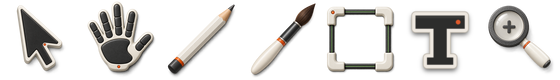
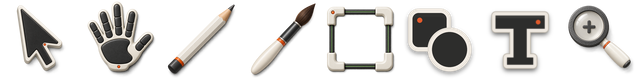
feat(dock): the Shape tool's button — its illustration, its lines and U
The dock gains an eighth tool between Frame and Text, taken up with `U`,
Photoshop's key for its shapes. Its illustration is drawn to the dock's
matte set — a charcoal square and a circle over its corner, each in the
warm ivory rim the others wear, the orange accent in the square's
corner, the same soft shadow under both — at the size the frame, the
pencil and the hand take in their cells, and the sheet is the eight in
dock order, cell for cell the files beside it. The line art the dock
falls back to without the sheet gets a square and a circle too, and the
pointer is a crosshair over the canvas with the tool in hand.

Nothing happens on the canvas yet: dragging a model out comes next.

diff --git a/src/editor.rs b/src/editor.rs
@@ -27,18 +27,20 @@ pub enum Tool {
     Pencil,
     Brush,
     Frame,
+    Shape,
     Text,
     Zoom,
 }
 
 impl Tool {
     /// Dock order.
-    pub const ALL: [Tool; 7] = [
+    pub const ALL: [Tool; 8] = [
         Tool::Select,
         Tool::Hand,
         Tool::Pencil,
         Tool::Brush,
         Tool::Frame,
+        Tool::Shape,
         Tool::Text,
         Tool::Zoom,
     ];
@@ -50,6 +52,8 @@ impl Tool {
             Tool::Pencil => 'p',
             Tool::Brush => 'b',
             Tool::Frame => 'f',
+            // Photoshop's, whose shapes all share it.
+            Tool::Shape => 'u',
             Tool::Text => 't',
             Tool::Zoom => 'z',
         }
@@ -3504,6 +3508,7 @@ mod tests {
         assert_eq!(Tool::from_hotkey('h'), Some(Tool::Hand));
         assert_eq!(Tool::from_hotkey('z'), Some(Tool::Zoom));
         assert_eq!(Tool::from_hotkey('b'), Some(Tool::Brush));
+        assert_eq!(Tool::from_hotkey('u'), Some(Tool::Shape), "Photoshop's key for its shapes");
         assert_eq!(Tool::from_hotkey('x'), None);
         for t in Tool::ALL {
             assert_eq!(Tool::from_hotkey(t.hotkey()), Some(t));
@@ -3511,7 +3516,7 @@ mod tests {
     }
 
     #[test]
-    fn dock_order_is_select_hand_pencil_brush_frame_text_zoom() {
+    fn dock_order_is_select_hand_pencil_brush_frame_shape_text_zoom() {
         assert_eq!(
             Tool::ALL,
             [
@@ -3520,6 +3525,7 @@ mod tests {
                 Tool::Pencil,
                 Tool::Brush,
                 Tool::Frame,
+                Tool::Shape,
                 Tool::Text,
                 Tool::Zoom
             ]

diff --git a/src/dock.rs b/src/dock.rs
@@ -233,7 +233,7 @@ impl Dock {
     }
 }
 
-/// The seven illustrations stand in dock order on one 7 x 1 sheet.
+/// The eight illustrations stand in dock order on one 8 x 1 sheet.
 fn icon_uv(tool: Tool) -> [f32; 4] {
     let col = match tool {
         Tool::Select => 0,
@@ -241,8 +241,9 @@ fn icon_uv(tool: Tool) -> [f32; 4] {
         Tool::Pencil => 2,
         Tool::Brush => 3,
         Tool::Frame => 4,
-        Tool::Text => 5,
-        Tool::Zoom => 6,
+        Tool::Shape => 5,
+        Tool::Text => 6,
+        Tool::Zoom => 7,
     } as f32;
     let cols = Tool::ALL.len() as f32;
     // Stay half a texel inside the cell, so linear filtering at a scaled
@@ -337,6 +338,25 @@ fn icon(tool: Tool) -> &'static [&'static [(f32, f32)]] {
             ],
             &[(9.5, 2.0), (9.5, 22.0)],
             &[(2.0, 9.5), (22.0, 9.5)],
+        ],
+        // A square, and a circle standing over its corner.
+        Tool::Shape => &[
+            &[(3.0, 3.0), (13.5, 3.0), (13.5, 13.5), (3.0, 13.5), (3.0, 3.0)],
+            &[
+                (21.0, 15.0),
+                (20.2, 18.0),
+                (18.0, 20.2),
+                (15.0, 21.0),
+                (12.0, 20.2),
+                (9.8, 18.0),
+                (9.0, 15.0),
+                (9.8, 12.0),
+                (12.0, 9.8),
+                (15.0, 9.0),
+                (18.0, 9.8),
+                (20.2, 12.0),
+                (21.0, 15.0),
+            ],
         ],
         // A capital T with its serifs.
         Tool::Text => &[

diff --git a/src/app.rs b/src/app.rs
@@ -4627,7 +4627,7 @@ impl App {
                 (Tool::Select, Some(Handle::Rotate(_))) => CursorIcon::Crosshair,
                 (Tool::Select, None) => CursorIcon::Default,
                 (Tool::Hand, _) => CursorIcon::Grab,
-                (Tool::Pencil | Tool::Brush | Tool::Frame, _) => CursorIcon::Crosshair,
+                (Tool::Pencil | Tool::Brush | Tool::Frame | Tool::Shape, _) => CursorIcon::Crosshair,
                 (Tool::Text, _) => CursorIcon::Text,
                 (Tool::Zoom, _) => CursorIcon::ZoomIn,
             }
